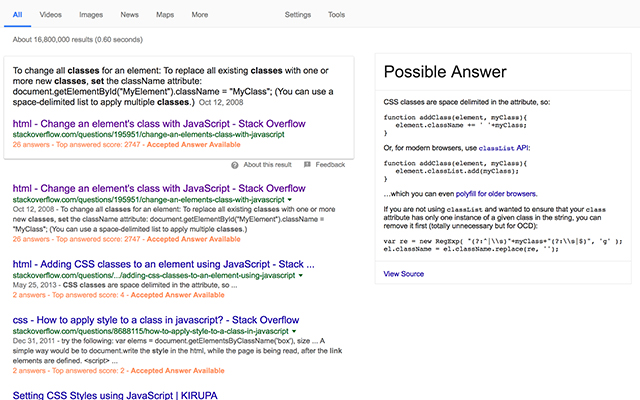
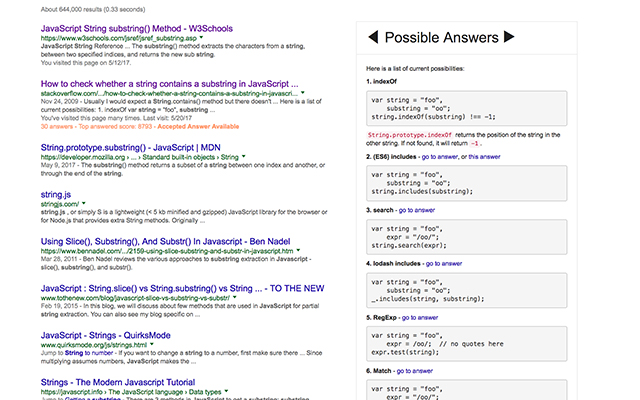
[FEAT] view all possible answers in carousel

diff --git a/js/background.js b/js/background.js
@@ -8,9 +8,11 @@ var _gaq = _gaq || [];
 _gaq.push(['_setAccount', 'UA-55950495-3']);
 _gaq.push(['_trackPageview']);
 
+answers_div = []
+g_current_index = 0
 flag = true;
 STACK_COLOR = ' #ff966b';
-POSSIBLE_ANSWER = 'Possible Answer'
+POSSIBLE_ANSWER = 'Possible Answers'
 VIEW_SOURCE = 'View Answer';
 COMMENTS = "<h4>Comments:<h4>";
 CODE_COLOR = "#eff0f1";
@@ -108,85 +110,106 @@ var observer2 = new MutationObserver(function(mutations) {
 observer1.observe(document.body, config);
 
 function inject_text(elem, htmlElem){
-          answers = htmlElem.find('div.answer')
-          answers_count = answers.size();
-          accpeted_answer = htmlElem.find('div.accepted-answer').size();
-          max_score = 0;
-          max_answer = answers[0];
-          for (i=0; i<answers_count; i++){
-            score = answers[i].getElementsByClassName('vote-count-post')[0].innerHTML;
-            score_i = parseInt(score)
-            if (max_score < score_i){
-               max_score = score_i;
-               max_answer = answers[i];
-            }
-          }
-            if (flag){
-              flag = false;
-              possible_answer(elem, max_answer)
-            }
+  answers = htmlElem.find('div.answer')
+  answers_count = answers.size();
+  accpeted_answer = htmlElem.find('div.accepted-answer').size();
+  max_score = 0;
+  max_answer = answers[0];
+  for (i=0; i<answers_count; i++){
+    score = answers[i].getElementsByClassName('vote-count-post')[0].innerHTML;
+    score_i = parseInt(score)
+    if (max_score < score_i){
+       max_score = score_i;
+       max_answer = answers[i];
+    }
+  }
+  if (flag){
+    title();
+    possible_answer(elem, max_answer)
+    flag = false;
+    var next_link = document.getElementById('next');
+    next_link.addEventListener('click', function() {
+      clicked(true)
+    });
+    var prev_link = document.getElementById('prev');
+    prev_link.addEventListener('click', function() {
+      clicked(false)
+    });
+    }
+  else{
+    possible_answer(elem, max_answer)
+  }
 
-          var div_top = document.createElement("div");
-          div_top.className = "s";
+  var div_top = document.createElement("div");
+  div_top.className = "s";
 
-          var para = document.createElement("span");
-          para.className += " st";
-          para.dir = 'auto'
-          para.style.color = STACK_COLOR
-          para.innerHTML = answers_count +" answers";
-          if (answers_count > 0){
-              para.innerHTML += " - Top answered score: " + max_score;        
-          }
-          if (accpeted_answer > 0){
-              para.innerHTML += " - <b>Accepted Answer Available</b>";
-             _gaq.push(['_trackEvent', 'accepted_answer', 'exsits']);
-          }
+  var para = document.createElement("span");
+  para.className += " st";
+  para.dir = 'auto'
+  para.style.color = STACK_COLOR
+  para.innerHTML = answers_count +" answers";
+  if (answers_count > 0){
+      para.innerHTML += " - Top answered score: " + max_score;        
+  }
+  if (accpeted_answer > 0){
+      para.innerHTML += " - <b>Accepted Answer Available</b>";
+     _gaq.push(['_trackEvent', 'accepted_answer', 'exsits']);
+  }
 
-          div_top.append(para);
-          div = elem.parentElement.parentElement;
-          div_top.dir = 'auto'
-          div.append(div_top);
-     _gaq.push(['_trackEvent', 'inject_text', 1]);
+  div_top.append(para);
+  div = elem.parentElement.parentElement;
+  div_top.dir = 'auto'
+  div.append(div_top);
+  _gaq.push(['_trackEvent', 'inject_text', 1]);
 
       
 }
 
+function title(){
+  var title_div = document.createElement("div");
+  title_div.className ="kno-ecr-pt kno-fb-ctx"
+  title_div.innerHTML = '<span style="cursor: pointer;" id="prev">◀ </span>' + POSSIBLE_ANSWER + '<span style="cursor: pointer;" id="next"> ▶</span>'
+  title_div.setAttribute("style","padding-left: 20px;padding-right: 20px;");
+  $('#rhs').append(title_div);
+}
+
+
 function possible_answer(elem, max_answer){
-    // adding possible answer to the search
-    var answer_div = document.createElement("div");
-    var title_div = document.createElement("div");
-    title_div.className ="kno-ecr-pt kno-fb-ctx"
-    title_div.innerHTML = POSSIBLE_ANSWER
-    title_div.setAttribute("style","padding-left: 15px;padding-right: 15px;");
-    answer_div.className += " xpdopen";
-    answer_div.setAttribute("style", "padding-left: 15px;padding-right: 15px;border-top: solid 1px #ebebeb;margin-top: 15px;")
-    comment_answer = max_answer.getElementsByClassName('comments')[0];
-    share_link_data = max_answer.id
-    max_answer = max_answer.getElementsByTagName('tr')[0];
-    max_answer.getElementsByClassName('votecell')[0].remove();
-    max_answer.getElementsByClassName('fw')[0].remove();
-    answer_clean = max_answer.getElementsByClassName('post-text')[0];
-    code_pre = answer_clean.getElementsByTagName('pre');
-    for (i=0; i<code_pre.length; i++){
-      code_pre[i].style.whiteSpace = "pre-wrap";
-      code_pre[i].style.backgroundColor = CODE_COLOR;
-    }
-    answer_div.append(answer_clean);
-    instert_comments(comment_answer, answer_div);
-    // adding source link
-    var source_div = document.createElement("div");
-    source_div.className += " xpdopen";
-    source_div.setAttribute("style", "padding-top: 15px;padding-left: 15px;border-top: solid 1px #ebebeb;margin-top: 15px;")
-    var source_a = document.createElement("a");
-    share_link = elem.href+"#"+share_link_data
-    source_a.href = share_link;
-    source_a.innerText = VIEW_SOURCE;
-    source_div.append(source_a);
-    $('#rhs')[0].setAttribute("style","border: solid 1px #ebebeb;min-width: 400px;max-width: 500px;");
-    $('#rhs').append(title_div);
-    $('#rhs').append(answer_div);   
-    $('#rhs').append(source_div);  
-  
+  // adding possible answer to the search
+  var answer_div = document.createElement("div");
+  answer_div.className += " xpdopen";
+  answer_div.setAttribute("style", "padding-top: 20px;padding-left: 20px;padding-right: 20px;border-top: solid 1px #ebebeb;margin-top: 15px;")
+  comment_answer = max_answer.getElementsByClassName('comments')[0];
+  share_link_data = max_answer.id
+  max_answer = max_answer.getElementsByTagName('tr')[0];
+  max_answer.getElementsByClassName('votecell')[0].remove();
+  max_answer.getElementsByClassName('fw')[0].remove();
+  answer_clean = max_answer.getElementsByClassName('post-text')[0];
+  // code_pre = answer_clean.getElementsByTagName('pre');
+  // for (i=0; i<code_pre.length; i++){
+  //   code_pre[i].style.whiteSpace = "pre-wrap";
+  //   code_pre[i].style.backgroundColor = CODE_COLOR;
+  // }
+  answer_div.append(answer_clean);
+  instert_comments(comment_answer, answer_div);
+  // adding source link
+  var source_div = document.createElement("div");
+  source_div.className += " xpdopen";
+  source_div.setAttribute("style", "padding-top: 20px;padding-left: 20px;border-top: solid 1px #ebebeb;margin-top: 15px;")
+  var source_a = document.createElement("a");
+  share_link = elem.href + "#" + share_link_data
+  source_a.href = share_link;
+  source_a.innerText = VIEW_SOURCE;
+  source_div.append(source_a);
+  $('#rhs')[0].setAttribute("style","border: solid 1px #ebebeb;min-width: 400px;max-width: 500px;");
+  var main_div = document.createElement('div');
+  main_div.append(answer_div);   
+  main_div.append(source_div); 
+  main_div.className = "main_div"
+  answers_div.push(main_div); 
+  if (flag){
+    $('#rhs').append(main_div);
+  }
 }
 
 function instert_comments(comment_answer, answer_div){
@@ -195,24 +218,42 @@ function instert_comments(comment_answer, answer_div){
     comment_actions[i].remove();
   }
   comments = comment_answer.getElementsByClassName('comment-copy');
-  for (var i = 0; i < comments.length-1; i++) {
+  var comments_size = comments.length;
+  for (var i = 0; i < comments_size-1  && i < 2; i++) {
     var h = document.createElement("hr")
     h.style.paddingTop = "10px"
     comments[i].append(h);
   }
-  var comments_span = document.createElement('span')
-  comments_span.setAttribute("style", "border-top: solid 1px #ebebeb")
-  comments_span.innerHTML = COMMENTS
-  answer_div.append(comments_span);
-  
-  for (var i = 0; i < comments.length; i++) {
-    var comments_code_tags = comments[i].getElementsByTagName('code')
-    for (j=0; j<comments_code_tags.length; j++){
-      comments_code_tags[j].style.whiteSpace = "normal";
-      comments_code_tags[j].style.backgroundColor = CODE_COLOR;
-    }
-    answer_div.append(comments[i]);
+
+  if (comments_size > 0){
+    var comments_span = document.createElement('span')
+    comments_span.setAttribute("style", "border-top: solid 1px #ebebeb")
+    comments_span.innerHTML = COMMENTS
+    answer_div.append(comments_span);
+  }
+  var  i = 0;
+  while(comments.length >0 && i < 3) {
+    answer_div.append(comments[0]);
+    i += 1;
   }
 }
+
+function clicked(next){
+  if (next){
+    g_current_index = (g_current_index + 1) % answers_div.length;
+   
+  }
+  else{
+    g_current_index = g_current_index - 1;
+    if (g_current_index < 0) {
+        g_current_index = answers_div.length - 1;
+    }
+  }
+  var next_div = answers_div[g_current_index];
+  $('.main_div')[0].remove();
+  $('#rhs').append(next_div);
+}
+
+
 
 

diff --git a/html/background.html b/html/background.html
@@ -6,6 +6,5 @@
 		<script src="../js/background.js"></script>
     </head>
     <body>
-
     </body>
 </html>
